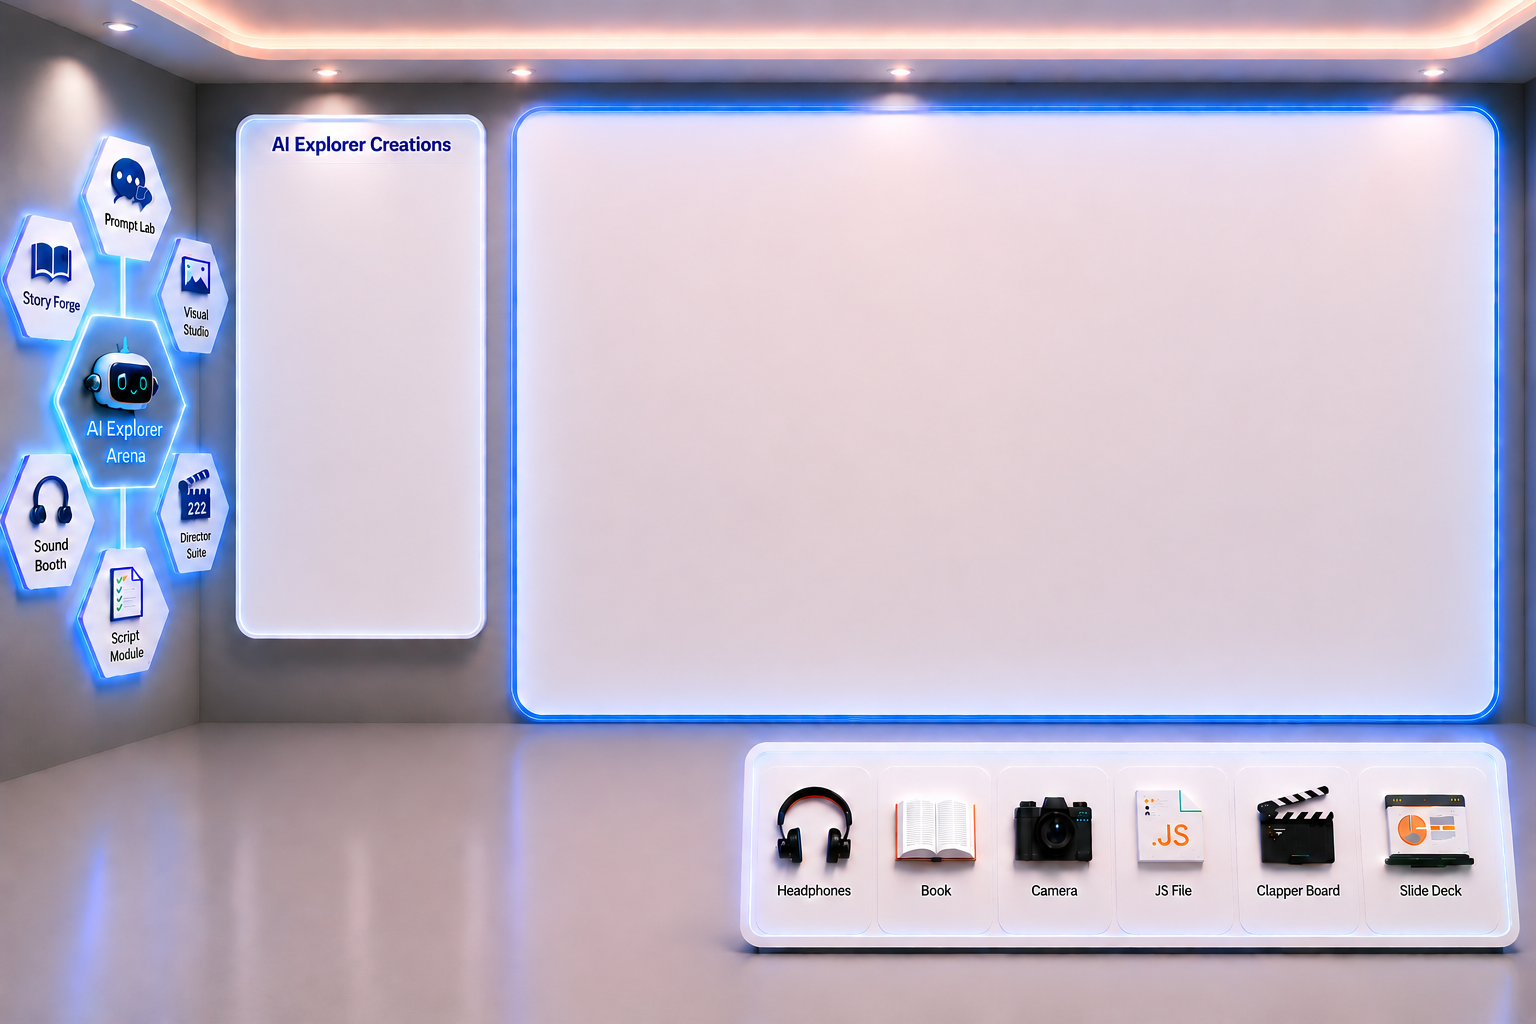
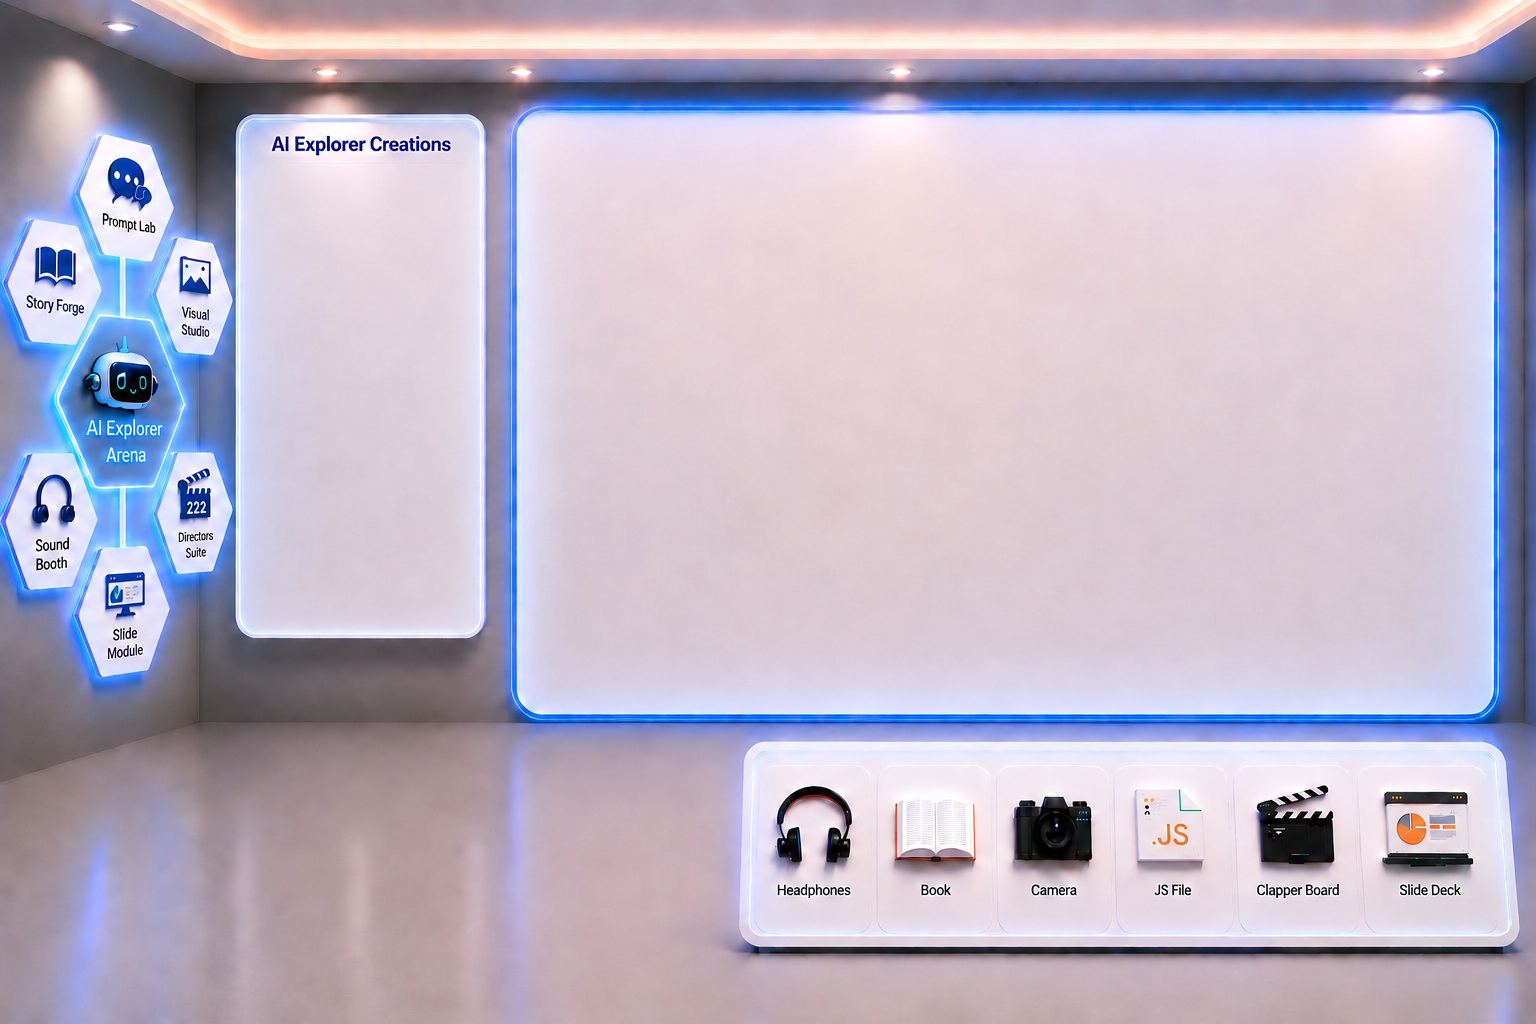
auto-save: Claude session changes

diff --git a/components/playground/CreationsRoom.tsx b/components/playground/CreationsRoom.tsx
@@ -23,12 +23,12 @@ const SHELF_HOTSPOTS: {
   glowColor: string; glowRgb: string;
   top: string; height: string; left: string; width: string;
 }[] = [
-  { id:"audio",  label:"AUDIO",  glowColor:"#00aaff", glowRgb:"0,170,255",   top:"7%",  height:"18%", left:"0.5%", width:"9.5%" },
-  { id:"image",  label:"IMAGE",  glowColor:"#ff4488", glowRgb:"255,68,136",  top:"7%",  height:"18%", left:"11%",  width:"9.5%" },
-  { id:"video",  label:"VIDEO",  glowColor:"#ff7800", glowRgb:"255,120,0",   top:"28%", height:"17%", left:"0.5%", width:"9.5%" },
-  { id:"json",   label:"SCRIPT", glowColor:"#00ff64", glowRgb:"0,255,100",   top:"28%", height:"17%", left:"11%",  width:"9.5%" },
-  { id:"text",   label:"TEXT",   glowColor:"#c8a0ff", glowRgb:"200,160,255", top:"48%", height:"17%", left:"0.5%", width:"9.5%" },
-  { id:"slides", label:"SLIDE",  glowColor:"#ffb400", glowRgb:"255,180,0",   top:"48%", height:"17%", left:"11%",  width:"9.5%" },
+  { id:"audio",  label:"AUDIO",  glowColor:"#00aaff", glowRgb:"0,170,255",   top:"48%",  height:"7%", left:"2%", width:"3%" },
+  { id:"image",  label:"IMAGE",  glowColor:"#ff4488", glowRgb:"255,68,136",  top:"26%",  height:"6%", left:"11%",  width:"3%" },
+  { id:"video",  label:"VIDEO",  glowColor:"#ff7800", glowRgb:"255,120,0",   top:"47%", height:"6%", left:"11%", width:"3%" },
+  { id:"json",   label:"SCRIPT", glowColor:"#00ff64", glowRgb:"0,255,100",   top:"25%", height:"6%", left:"2.5%",  width:"3%" },
+  { id:"text",   label:"TEXT",   glowColor:"#c8a0ff", glowRgb:"200,160,255", top:"16%", height:"7%", left:"6.4%", width:"4%" },
+  { id:"slides", label:"SLIDE",  glowColor:"#ffb400", glowRgb:"255,180,0",   top:"58%", height:"6%", left:"6%",  width:"4%" },
 ];
 
 // ── Bottom tray hotspot zones — visible for calibration, will be made invisible after ──
@@ -38,23 +38,23 @@ const BOTTOM_TRAY_HOTSPOTS: {
   glowColor: string; glowRgb: string;
   top: string; height: string; left: string; width: string;
 }[] = [
-  { id:"audio",  label:"Headphones", glowColor:"#00aaff", glowRgb:"0,170,255",   top:"79%", height:"14%", left:"47%", width:"7%" },
-  { id:"text",   label:"Book",       glowColor:"#c8a0ff", glowRgb:"200,160,255", top:"79%", height:"14%", left:"55%", width:"7%" },
-  { id:"image",  label:"Camera",     glowColor:"#ff4488", glowRgb:"255,68,136",  top:"79%", height:"14%", left:"63%", width:"7%" },
-  { id:"json",   label:"JS File",    glowColor:"#00ff64", glowRgb:"0,255,100",   top:"79%", height:"14%", left:"71%", width:"7%" },
-  { id:"video",  label:"Clapper",    glowColor:"#ff7800", glowRgb:"255,120,0",   top:"79%", height:"14%", left:"79%", width:"7%" },
-  { id:"slides", label:"Slide Deck", glowColor:"#ffb400", glowRgb:"255,180,0",   top:"79%", height:"14%", left:"87%", width:"7%" },
+  { id:"audio",  label:"", glowColor:"#00aaff", glowRgb:"0,170,255",   top:"76%", height:"14%", left:"49.5%", width:"7%" },
+  { id:"text",   label:"",       glowColor:"#c8a0ff", glowRgb:"200,160,255", top:"76%", height:"14%", left:"57%", width:"7%" },
+  { id:"image",  label:"",     glowColor:"#ff4488", glowRgb:"255,68,136",  top:"76%", height:"14%", left:"65%", width:"7%" },
+  { id:"json",   label:"",    glowColor:"#00ff64", glowRgb:"0,255,100",   top:"76%", height:"14%", left:"73%", width:"7%" },
+  { id:"video",  label:"",    glowColor:"#ff7800", glowRgb:"255,120,0",   top:"76%", height:"14%", left:"81%", width:"7%" },
+  { id:"slides", label:"", glowColor:"#ffb400", glowRgb:"255,180,0",   top:"76%", height:"14%", left:"89%", width:"8%" },
 ];
 
 // ── Center shelf rows — empty shelves in the right column of the bookcase ────
 // Creations from the selected hotspot type are displayed here (2 per row × 6 rows = 12 slots)
 const CENTER_SHELF_ROWS: { top: string; height: string }[] = [
-  { top: "8%",  height: "13%" },
+  { top: "8%", height: "13%" },
   { top: "20%", height: "13%" },
   { top: "32%", height: "13%" },
   { top: "44%", height: "13%" },
   { top: "56%", height: "13%" },
-  { top: "68%", height: "13%" },
+  
 ];
 
 // ── Floor objects (left → right across the floor) ────────────────────────────
@@ -779,7 +779,7 @@ export function CreationsRoom({
         style={{ position: "absolute", inset: 0, width: "100%", height: "100%", objectFit: "fill", pointerEvents: "none" }}
       />
 
-      {/* ── Left panel hotspot zones (desktop only) — VISIBLE FOR CALIBRATION ── */}
+      {/* ── Left panel hotspot zones (desktop only) ── */}
       <div className="hidden lg:block" style={{ position: "absolute", inset: 0, zIndex: 12, pointerEvents: "none" }}>
         {SHELF_HOTSPOTS.map(hz => (
           <button
@@ -789,17 +789,13 @@ export function CreationsRoom({
             style={{
               position: "absolute",
               top: hz.top, left: hz.left, width: hz.width, height: hz.height,
-              background: `rgba(${hz.glowRgb},0.25)`,
-              border: `2px solid rgba(${hz.glowRgb},0.85)`,
+              background: "transparent",
+              border: "none",
               borderRadius: 8,
               cursor: "pointer",
               pointerEvents: "auto",
-              display: "flex", alignItems: "center", justifyContent: "center",
-              color: hz.glowColor, fontSize: 9, fontWeight: 700, fontFamily: "monospace",
             }}
-          >
-            {hz.label}
-          </button>
+          />
         ))}
       </div>
 
@@ -836,7 +832,7 @@ export function CreationsRoom({
         return (
           <div
             className="hidden lg:block"
-            style={{ position: "absolute", left: "14%", top: "4%", width: "17%", height: "72%", zIndex: 13 }}
+            style={{ position: "absolute", left: "15%", top: "9%", width: "17%", height: "72%", zIndex: 13 }}
           >
             {CENTER_SHELF_ROWS.map((row, rowIdx) => {
               const pair = filtered.slice(rowIdx * 2, rowIdx * 2 + 2);
